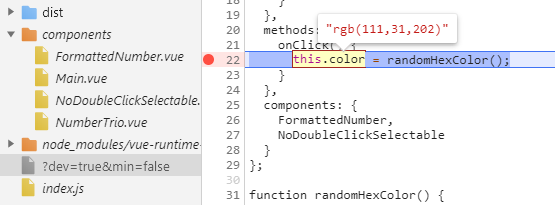
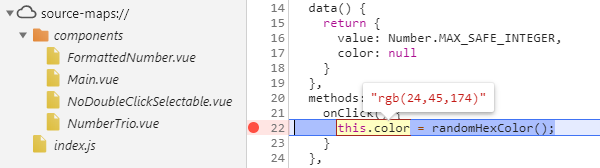
Update images

Changed region(s): [[0.0, 0.0, 1.0, 0.9821], [0.5207, 0.3869, 0.5514, 0.4464]]

diff --git a/README.md b/README.md
@@ -29,7 +29,9 @@ Or both:
 [?dev=true&min=true](https://alttiri.github.io/formatted-number/?dev=true&min=true)
 
 
-But the minified version has not working Source Maps. Is it bug of Terser? (I have used [the disabled `compress` option](https://github.com/terser/terser#source-maps-and-debugging) and even `mangle` one too.)
+But the minified version has not working Source Maps. Is it bug of Terser? 
+(I have used [the disabled `compress` option](https://github.com/terser/terser#source-maps-and-debugging) 
+and even `mangle` one too.)
 You can see the original, not transpiled, files, but you can't debug them with break points.
 The break point is gray, not red (in Chromium 84 based browser).
 
